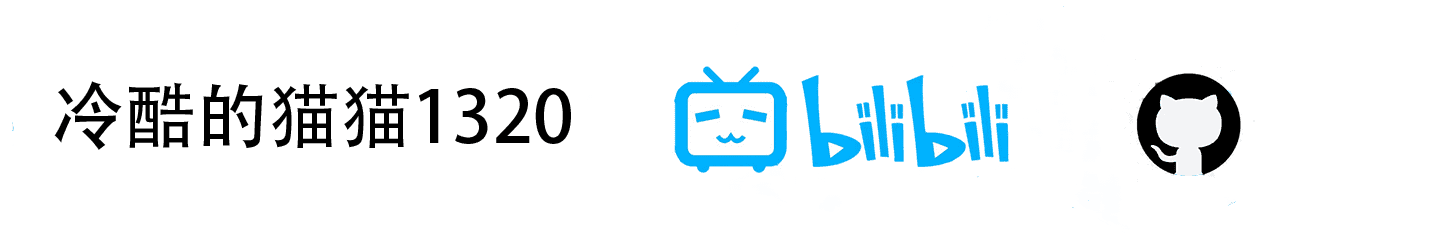
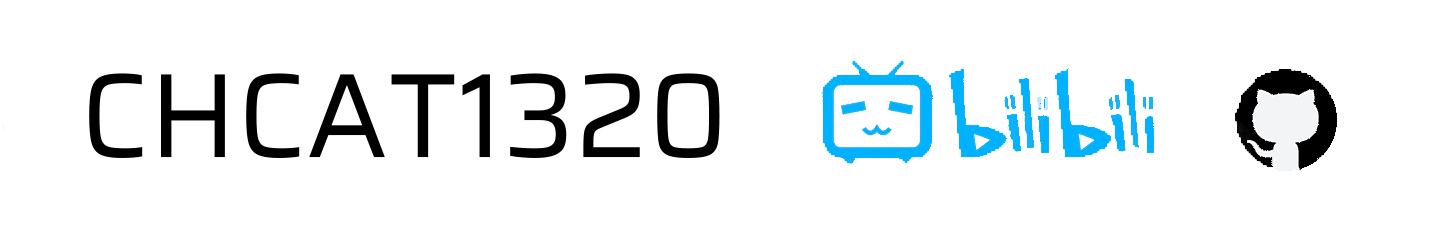
v0.1.8

Changed region(s): [[0.0312, 0.253, 0.9375, 0.7028]]

diff --git a/index.html b/index.html
@@ -3,7 +3,7 @@
 <html lang="zh-CN">
 	<head>
 		<meta charset="utf-8">
-		<title>Home of 冷酷的猫猫1320</title>
+		<title>Home of CHCAT1320</title>
 		<link rel="icon" href="img/favicon.ico"/>
 		<meta name="viewport" content="width=device-width, initial-scale=1.0, maximum-scale=1.0, minimum-scale=1.0 user-scalable=no">
 		<meta name='冷酷的猫猫1320 website' content="冷酷的猫猫1320 website"
@@ -99,23 +99,23 @@
 							<h3 id="user1"></h3>
 						</div>
 						<div>
-							<h2 style="margin-right: 88%;margin-top: -60px;">@冷酷的猫猫1320</h2>
+							<h2 style="margin-right: 88%;margin-top: -60px;">@CHCAT1320</h2>
 							<a href="https://space.bilibili.com/1644970825">
 								<img src="img/bilibili.png" width="50" height="50px" style="margin-right: 1400px;position: relative; top: -60px;">
 							</a>
-							<a href="https://github.com/lengkudemaomao1320">
+							<a href="https://github.com/CHCAT1320">
 								<img src="img/github.png" width="40" height="40px" style="margin-right: 1250px;position: relative; top: -110px;">
 							</a>
 						</div>
 					</div>
 				</div>
 			<div style="text-align:center">
-				 <h1 style=" font-size:300%">Welcome to the 冷酷的猫猫1320 website</h1>
+				 <h1 style=" font-size:300%">Welcome to the CHCAT1320 website</h1>
 				 <img src="img/1320.jpg" width="120px" height="120px" style="border-radius: 50%;"/>
-				 <h2 style=" font-size:200%">这是冷酷的猫猫1320</h2>
+				 <h2 style=" font-size:200%">这是CHCAT1320</h2>
 				 
 				 <h2 id="box5" align="center" style="font-size: 200%;"></h2>
-				 <script type="text/javascript" src="js/fangwen.js"></script>
+				 <script type="text/javascript" src="js/run.js"></script>
 				 <img src="img/冷酷的猫猫.png" width="400px" height="70px" style="margin-right:-50px">
 				 <a href="about/about.html" style="text-decoration: none;">
 					 <h3 style="color: red; font-size:180%">关于我们</h3>
@@ -129,7 +129,7 @@
 				 	console.log("你好啊")
 				 </script>
 		</div>
-		<div id="watermarkId" class="watermark_mask"></div>
+		<div id="watermarkId" class="watermark_mask" title="老子就是不让你复制水印--by凉粉"></div>
 		<script src="js/shuiyin.js" type="text/javascript" charset="utf-8"></script>
 		<div>
 			<script type="text/javascript" src="js/xy suofang.js"></script>

diff --git a/about/about.html b/about/about.html
@@ -2,7 +2,7 @@
 <html lang="zh-CN">
 <head>
     <meta charset="UTF-8">
-    <title>The 冷酷的猫猫1320's home is about</title>
+    <title>The CHCAT1320's home is about</title>
     <link rel="icon" href="../img/favicon.ico"/>
     <meta name="viewport" content="width=device-width, initial-scale=1.0, maximum-scale=1.0, minimum-scale=1.0, user-scalable=no">
 </head>
@@ -50,19 +50,19 @@ a {text-decoration: none;}
 	</a>
 	
 <a href="https://space.bilibili.com/1644970825?spm_id_from=333.1007.0.0">
-    <h3 style="color: red">作者：@冷酷的猫猫1320</h3>
+    <h3 style="color: red">作者：@CHCAT1320</h3>
 </a>
 <!--不规范的写法，不要学-->
-<h3>网站的部分代码由 @冷酷的猫猫1320 独立编写</h3>
-<h3>特别感谢 @一袋白凉粉啊 @CTBBBB6090 对猫猫的技术帮助与支持</h3>
+<h3>网站的部分代码由 @CHCAT1320 独立编写</h3>
+<h3>特别感谢 @一袋白凉粉啊 @CTBBBB6090 对CHCAT的技术帮助与支持</h3>
 <h3>如果发现BUG或有什么想写进网站的东西，请向QQ:1095216448提交</h3>
 <h3>或1095216448@qq.com</h3>
 <h3>如有侵权请速速与我联系删除！</h3>
 <h3 style="color: red;">第一次更新：2023年2月13日10点26分26秒</h3>
-<h3 style="color: red">最后一次更新：2023年7月24日</h3>
-<h3 style="color: blue">版本号：v0.1.6</h3>
+<h3 style="color: red">最后一次更新：2023年8月14日</h3>
+<h3 style="color: blue">版本号：v0.1.8</h3>
     <h3 style="margin-top: 0;margin-right:65px;color: blue">共修复了</h3>
-    <h3 style="margin-top: -45px;margin-right:-20px;color: red">4</h3>
+    <h3 style="margin-top: -45px;margin-right:-20px;color: red" title="我也不知道多少个,反正很多">?</h3>
     <h3 style="margin-top: -47px;margin-right:-90px;color: blue">个问题</h3>
 
 
@@ -71,7 +71,7 @@ a {text-decoration: none;}
 <h3>UP永远在这里</h3>
 <h4>喵!</h4>
 
-<img src="../img/冷酷的猫猫.png" width="400px" height="70px" style="margin-right:-50px">
+<img src="../img/冷酷的猫猫.png" width="400px" height="70px">
 </div>
 
 

diff --git a/js/shuiyin.js b/js/shuiyin.js
@@ -17,7 +17,7 @@
                 watermark_fontsize: '15px',//水印字体大小
                 watermark_font: 'fonts/cmdysj.ttf',//水印字体
                 watermark_width: 50,//水印宽度
-                watermark_height: 20,//水印长度
+                watermark_height: 40,//水印长度
                 watermark_angle: 25//水印倾斜度数
             };
 
@@ -87,4 +87,4 @@
             }
         };
 
-        watermarkUtils({ watermark_txt: "@冷酷的猫猫1320", watermark_width: 120, watermark_fontsize: "14px" }, watermarkId);
+        watermarkUtils({ watermark_txt: "@CHCAT1320  &  一袋白凉粉", watermark_width: 120, watermark_fontsize: "14px" }, watermarkId);

diff --git a/js/run.js b/js/run.js
@@ -1,4 +1,4 @@
-            function setStorage(){
+function setStorage(){
                 if(localStorage.counter){
                     localStorage.counter=Number(localStorage.counter)+1;
                 }else{
@@ -9,3 +9,7 @@
             var counter=setStorage();
             var oBox=document.getElementById('box5');
             oBox.innerHTML="你已经访问了此网站"+counter+"次";
+			
+			
+
+      
